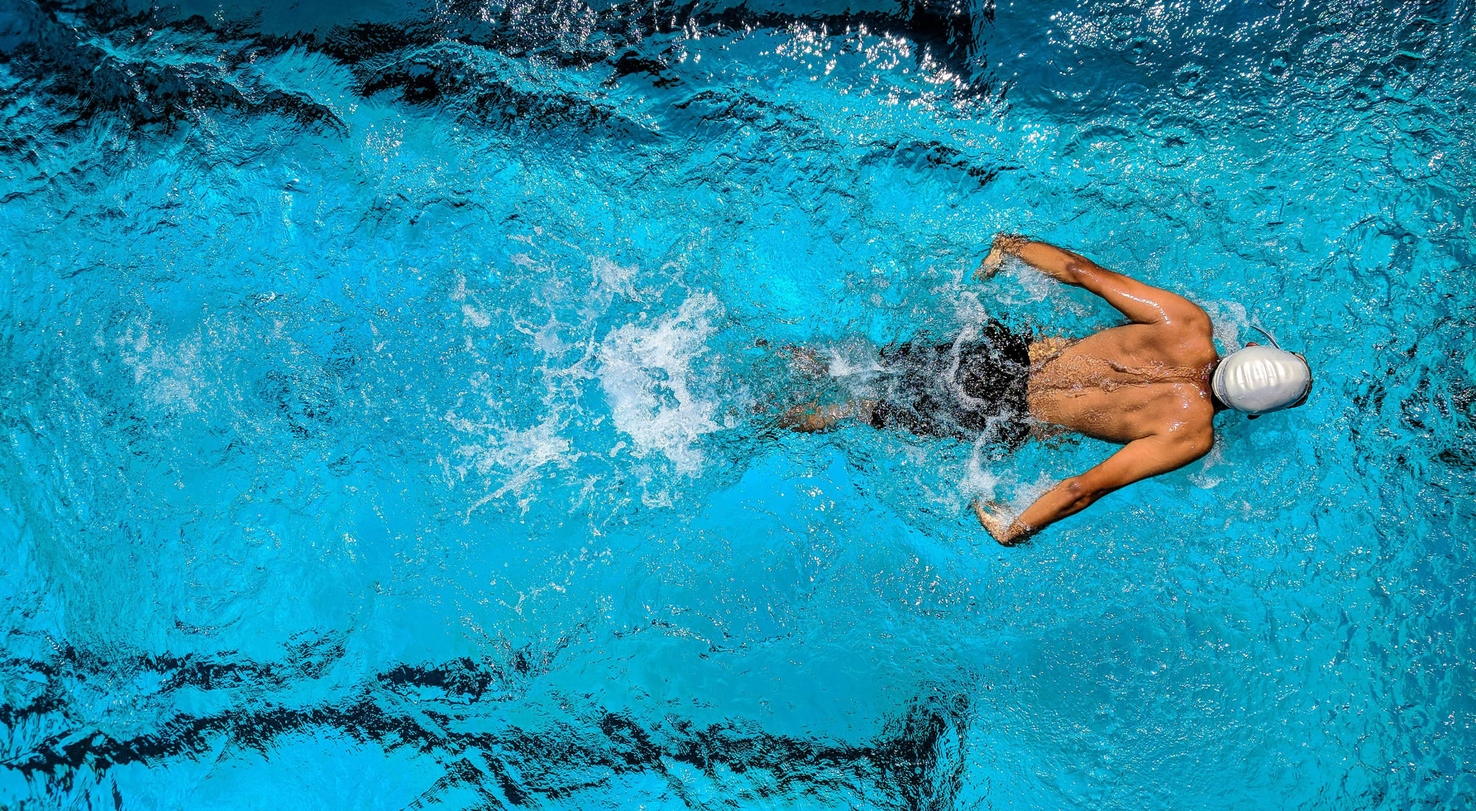
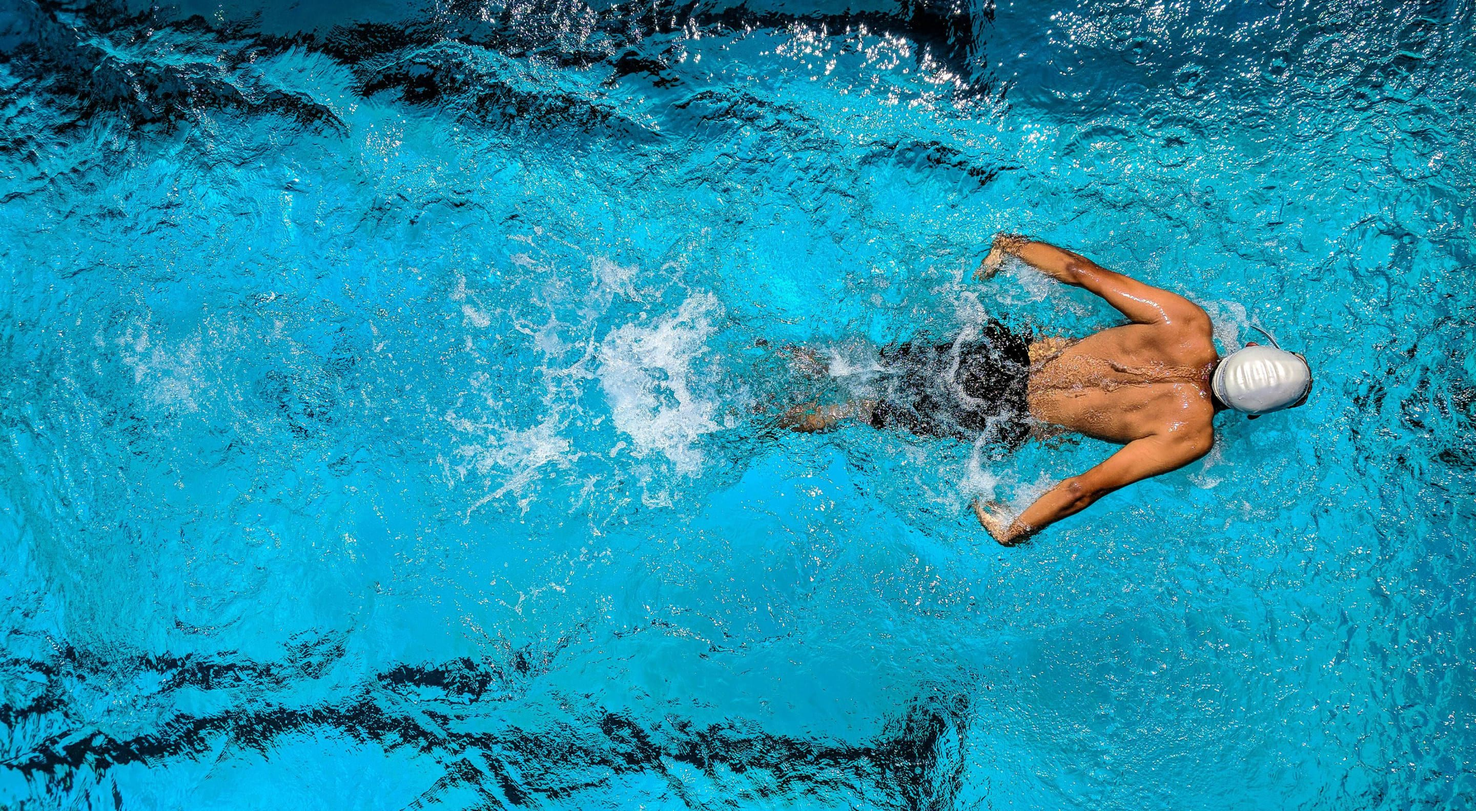
Optimize platform data loading

diff --git a/src/lib/training-plans/library.ts b/src/lib/training-plans/library.ts
@@ -1,5 +1,7 @@
 import "server-only";
 
+import { unstable_cache } from "next/cache";
+import { createSupabaseAdminClient } from "@/lib/supabase/admin";
 import { createSupabaseServerClient } from "@/lib/supabase/server";
 import { parseTrainingPlanContent } from "./content";
 import type {
@@ -171,34 +173,42 @@ export async function getAccessibleTrainingPlanVersionById(
 }
 
 async function getLibraryVersions(libraryId: string) {
-  const supabase = await createSupabaseServerClient();
-  const { data: links, error: linksError } = await supabase
-    .from("coach_library_versions")
-    .select("training_plan_version_id,sort_order")
-    .eq("library_id", libraryId)
-    .order("sort_order", { ascending: true });
-
-  if (linksError) throw new Error(linksError.message);
-  const linkRows = (links ?? []) as LibraryVersionRow[];
-  if (linkRows.length === 0) return [];
-
-  const { data: versions, error: versionsError } = await supabase
-    .from("training_plan_versions")
-    .select(VERSION_SUMMARY_COLUMNS)
-    .in("id", linkRows.map((link) => link.training_plan_version_id));
-
-  if (versionsError) throw new Error(versionsError.message);
-  const byId = new Map(
-    ((versions ?? []) as VersionSummaryRow[]).map((version) => [
-      version.id,
-      { ...version, target_distances: parseTargetDistances(version.target_distances) },
-    ]),
-  );
-
-  return linkRows
-    .map((link) => byId.get(link.training_plan_version_id))
-    .filter((version): version is TrainingPlanVersionSummary => Boolean(version));
+  return getCachedLibraryVersions(libraryId);
 }
+
+const getCachedLibraryVersions = unstable_cache(
+  async (libraryId: string) => {
+    const admin = createSupabaseAdminClient();
+    const { data: links, error: linksError } = await admin
+      .from("coach_library_versions")
+      .select("training_plan_version_id,sort_order")
+      .eq("library_id", libraryId)
+      .order("sort_order", { ascending: true });
+
+    if (linksError) throw new Error(linksError.message);
+    const linkRows = (links ?? []) as LibraryVersionRow[];
+    if (linkRows.length === 0) return [];
+
+    const { data: versions, error: versionsError } = await admin
+      .from("training_plan_versions")
+      .select(VERSION_SUMMARY_COLUMNS)
+      .in("id", linkRows.map((link) => link.training_plan_version_id));
+
+    if (versionsError) throw new Error(versionsError.message);
+    const byId = new Map(
+      ((versions ?? []) as VersionSummaryRow[]).map((version) => [
+        version.id,
+        { ...version, target_distances: parseTargetDistances(version.target_distances) },
+      ]),
+    );
+
+    return linkRows
+      .map((link) => byId.get(link.training_plan_version_id))
+      .filter((version): version is TrainingPlanVersionSummary => Boolean(version));
+  },
+  ["training-plan-library-versions"],
+  { revalidate: 30, tags: ["training-plan-library"] },
+);
 
 async function enrichLibraries(rows: LibraryRow[]) {
   if (rows.length === 0) return [];

diff --git a/src/components/app-header.tsx b/src/components/app-header.tsx
@@ -1,6 +1,8 @@
 import { LogOut, Waves } from "lucide-react";
 import Link from "next/link";
+import { unstable_cache } from "next/cache";
 import { signOut } from "@/app/login/actions";
+import { createSupabaseAdminClient } from "@/lib/supabase/admin";
 import { createSupabaseServerClient } from "@/lib/supabase/server";
 import type { AppRole } from "@/lib/auth/roles";
 import { ActiveNavLink } from "./active-nav-link";
@@ -128,20 +130,23 @@ async function getCurrentUserProfile() {
         ? user.user_metadata.full_name
         : null;
 
-    const [{ data: profileData }, { data: roleData }] = await Promise.all([
-      supabase
-        .from("profiles")
-        .select("*")
-        .eq("id", user.id)
-        .maybeSingle(),
-      supabase
-        .from("user_roles")
-        .select("role")
-        .eq("user_id", user.id),
-    ]);
+    let profileData: { full_name?: string | null; avatar_url?: string | null } | null = null;
+    let roleValues: unknown[] | undefined;
+    try {
+      const cached = await getCachedHeaderData(user.id);
+      profileData = cached.profile;
+      roleValues = cached.roles;
+    } catch {
+      const [{ data: profile }, { data: roles }] = await Promise.all([
+        supabase.from("profiles").select("full_name,avatar_url").eq("id", user.id).maybeSingle(),
+        supabase.from("user_roles").select("role").eq("user_id", user.id),
+      ]);
+      profileData = profile;
+      roleValues = roles?.map((row) => row.role);
+    }
 
-    const profile = profileData as { full_name?: string | null; avatar_url?: string | null } | null;
-    const roles = normalizeRoles(roleData?.map((row) => row.role));
+    const profile = profileData;
+    const roles = normalizeRoles(roleValues);
 
     return {
       email: user.email ?? null,
@@ -153,6 +158,24 @@ async function getCurrentUserProfile() {
     return { email: null, name: null, roles: [] as AppRole[], avatarUrl: null };
   }
 }
+
+const getCachedHeaderData = unstable_cache(
+  async (userId: string) => {
+    const admin = createSupabaseAdminClient();
+    const [{ data: profile, error: profileError }, { data: roles, error: rolesError }] = await Promise.all([
+      admin.from("profiles").select("full_name,avatar_url").eq("id", userId).maybeSingle(),
+      admin.from("user_roles").select("role").eq("user_id", userId),
+    ]);
+    if (profileError) throw new Error(profileError.message);
+    if (rolesError) throw new Error(rolesError.message);
+    return {
+      profile: profile as { full_name?: string | null; avatar_url?: string | null } | null,
+      roles: (roles ?? []).map((row) => row.role),
+    };
+  },
+  ["app-header-user"],
+  { revalidate: 60, tags: ["app-header-user"] },
+);
 
 function normalizeRoles(values: unknown[] | undefined): AppRole[] {
   const roles = (values ?? []).filter(isAppRole);

diff --git a/src/components/training-plans/structured-plan-builder.test.tsx b/src/components/training-plans/structured-plan-builder.test.tsx
@@ -1,5 +1,5 @@
 import { useState } from "react";
-import { fireEvent, render, screen } from "@testing-library/react";
+import { fireEvent, render, screen, waitFor } from "@testing-library/react";
 import { describe, expect, it, vi } from "vitest";
 import { createEmptyStructuredPlan } from "@/lib/training-plans/content";
 import type { TrainingPlanContentV2 } from "@/lib/training-plans/types";
@@ -20,31 +20,31 @@ vi.mock("@/components/feedback-provider", () => ({
 import { StructuredPlanBuilder } from "./structured-plan-builder";
 
 describe("StructuredPlanBuilder", () => {
-  it("opens the timeline dialog immediately when a workout is added", () => {
+  it("opens the timeline dialog when a workout is added", async () => {
     render(<BuilderHarness />);
 
     fireEvent.click(screen.getByRole("button", { name: "Workout" }));
 
-    expect(screen.getByRole("dialog", { name: "Neue Schwimmeinheit" })).toBeTruthy();
+    expect(await screen.findByRole("dialog", { name: "Neue Schwimmeinheit" })).toBeTruthy();
     expect(screen.getByTestId("session-count").textContent).toBe("2");
   });
 
-  it("stores the selected discipline and updates an untouched default title", () => {
+  it("stores the selected discipline and updates an untouched default title", async () => {
     render(<BuilderHarness />);
 
     fireEvent.click(screen.getByRole("button", { name: "Workout" }));
-    fireEvent.click(screen.getByRole("button", { name: "Rad" }));
+    fireEvent.click(await screen.findByRole("button", { name: "Rad" }));
     fireEvent.click(screen.getByRole("button", { name: "Workout übernehmen" }));
 
-    expect(screen.getByTestId("latest-session-title").textContent).toBe("Neue Radeinheit");
+    await waitFor(() => expect(screen.getByTestId("latest-session-title").textContent).toBe("Neue Radeinheit"));
   });
 
-  it("opens an existing workout directly and saves its session details", () => {
+  it("opens an existing workout directly and saves its session details", async () => {
     render(<BuilderHarness />);
 
     fireEvent.click(screen.getByRole("button", { name: /Neue Schwimmeinheit/ }));
 
-    expect(screen.getByRole("dialog", { name: "Neue Schwimmeinheit" })).toBeTruthy();
+    expect(await screen.findByRole("dialog", { name: "Neue Schwimmeinheit" })).toBeTruthy();
     fireEvent.change(screen.getByLabelText("Titel"), { target: { value: "Schwelle kompakt" } });
     fireEvent.change(screen.getByLabelText("Fokus"), { target: { value: "FTP stabilisieren" } });
     fireEvent.change(screen.getByLabelText("Trainingstag"), { target: { value: "3" } });

diff --git a/src/lib/dashboard/data.ts b/src/lib/dashboard/data.ts
@@ -87,6 +87,7 @@ export async function getAuthenticatedHomeData(): Promise<DashboardHomeProps | n
     rolesResult,
     improvementAnalysesResult,
     communityUpdates,
+    coachAthleteCountResult,
   ] = await Promise.all([
     supabase
       .from("profiles")
@@ -135,6 +136,10 @@ export async function getAuthenticatedHomeData(): Promise<DashboardHomeProps | n
       .order("created_at", { ascending: false })
       .limit(100),
     listRecentCommunityUpdates(4),
+    supabase
+      .from("coach_athletes")
+      .select("athlete_id", { count: "exact", head: true })
+      .eq("coach_id", user.id),
   ]);
 
   if (profileResult.error) throw new Error(profileResult.error.message);
@@ -144,6 +149,7 @@ export async function getAuthenticatedHomeData(): Promise<DashboardHomeProps | n
   if (membershipResult.error) throw new Error(membershipResult.error.message);
   if (rolesResult.error) throw new Error(rolesResult.error.message);
   if (improvementAnalysesResult.error) throw new Error(improvementAnalysesResult.error.message);
+  if (coachAthleteCountResult.error) throw new Error(coachAthleteCountResult.error.message);
 
   const activePlanRow = activePlanResult.data as ActiveTrainingPlanRow | null;
   let activeTrainingPlan: DashboardTrainingPlan | null = null;
@@ -174,17 +180,7 @@ export async function getAuthenticatedHomeData(): Promise<DashboardHomeProps | n
   const roleValues = (rolesResult.data ?? []).map((row) => row.role);
   const isCoach = roleValues.includes("coach");
   const isAdmin = roleValues.includes("admin");
-  let coachAthleteCount = 0;
-
-  if (isCoach) {
-    const { count, error } = await supabase
-      .from("coach_athletes")
-      .select("athlete_id", { count: "exact", head: true })
-      .eq("coach_id", user.id);
-
-    if (error) throw new Error(error.message);
-    coachAthleteCount = count ?? 0;
-  }
+  const coachAthleteCount = isCoach ? coachAthleteCountResult.count ?? 0 : 0;
 
   const profileRow = profileResult.data as ProfileRow | null;
   const metadataName =

diff --git a/src/app/trainingsplaene/verwalten/actions.ts b/src/app/trainingsplaene/verwalten/actions.ts
@@ -1,6 +1,6 @@
 "use server";
 
-import { revalidatePath } from "next/cache";
+import { revalidatePath, updateTag } from "next/cache";
 import { redirect } from "next/navigation";
 import { z } from "zod";
 import type { TechniqueProfileGroup } from "@/lib/analysis/types";
@@ -87,6 +87,7 @@ export async function saveTrainingPlan(
       if (error) return { message: error.message, status: "error" };
 
       revalidatePath("/admin");
+      updateTag("training-plan-library");
       revalidatePath("/trainingsplaene");
       revalidatePath("/trainingsplaene/verwalten");
       revalidatePath(`/trainingsplaene/verwalten/${parsed.data.id}`);
@@ -107,6 +108,7 @@ export async function saveTrainingPlan(
     if (error) return { message: error.message, status: "error" };
 
     revalidatePath("/admin");
+    updateTag("training-plan-library");
     revalidatePath("/trainingsplaene");
     revalidatePath("/trainingsplaene/verwalten");
     revalidatePath("/analyse");
@@ -142,6 +144,7 @@ export async function publishTrainingPlan(formData: FormData) {
   if (error) throw new Error(error.message);
 
   revalidatePath("/trainingsplaene");
+  updateTag("training-plan-library");
   revalidatePath("/trainingsplaene/verwalten");
   revalidatePath(`/trainingsplaene/verwalten/${id}`);
   revalidatePath("/admin");
@@ -168,6 +171,7 @@ export async function deleteTrainingPlan(formData: FormData) {
   if (error) throw new Error(error.message);
 
   revalidatePath("/admin");
+  updateTag("training-plan-library");
   revalidatePath("/trainingsplaene");
   revalidatePath("/trainingsplaene/verwalten");
   revalidatePath("/analyse");

diff --git a/src/components/training-plans/structured-plan-builder.tsx b/src/components/training-plans/structured-plan-builder.tsx
@@ -1,6 +1,7 @@
 "use client";
 
 import { useDeferredValue, useState } from "react";
+import dynamic from "next/dynamic";
 import {
   ArrowDown,
   ArrowUp,
@@ -11,10 +12,7 @@ import {
   Waves,
 } from "lucide-react";
 import { Button } from "@/components/button";
-import {
-  WorkoutTimelineDialog,
-  type WorkoutSessionDetails,
-} from "@/components/training-plans/workout-timeline-dialog";
+import type { WorkoutSessionDetails } from "@/components/training-plans/workout-timeline-dialog";
 import { duplicateSession, duplicateWeek, moveItem, moveSession } from "@/lib/training-plans/commands";
 import {
   createEmptyStructuredSession,
@@ -40,6 +38,20 @@ type TimelineDialogState = {
   content: NonNullable<StructuredTrainingPlanSession["timelineWorkout"]>;
   sessionDetails: WorkoutSessionDetails;
 };
+
+const WorkoutTimelineDialog = dynamic(
+  () => import("@/components/training-plans/workout-timeline-dialog").then((module) => module.WorkoutTimelineDialog),
+  {
+    ssr: false,
+    loading: () => (
+      <div role="status" className="fixed inset-0 z-[100] flex items-center justify-center bg-black/60 p-4 backdrop-blur-[2px]">
+        <div className="rounded-lg border border-[var(--line)] bg-[var(--overlay-bg)] px-5 py-4 text-sm text-[var(--muted)] shadow-2xl">
+          Workout Builder wird geladen...
+        </div>
+      </div>
+    ),
+  },
+);
 
 export function StructuredPlanBuilder({
   content,

diff --git a/src/app/login/actions.ts b/src/app/login/actions.ts
@@ -1,6 +1,6 @@
 "use server";
 
-import { revalidatePath } from "next/cache";
+import { revalidatePath, updateTag } from "next/cache";
 import { redirect } from "next/navigation";
 import { z } from "zod";
 import { assertRateLimit } from "@/lib/rate-limit/server";
@@ -55,6 +55,7 @@ export async function signInWithPassword(
     return { message: mapActionError(error, "Login fehlgeschlagen.") };
   }
 
+  updateTag("app-header-user");
   revalidatePath("/", "layout");
   redirect(nextPath);
 }
@@ -113,6 +114,7 @@ export async function signUpWithPassword(
     return { message: mapActionError(error, "Account konnte nicht erstellt werden.") };
   }
 
+  updateTag("app-header-user");
   revalidatePath("/", "layout");
   redirect(nextPath);
 }
@@ -120,6 +122,7 @@ export async function signUpWithPassword(
 export async function signOut() {
   const supabase = await createSupabaseServerClient();
   await supabase.auth.signOut();
+  updateTag("app-header-user");
   revalidatePath("/", "layout");
   redirect("/");
 }

diff --git a/src/app/profile/actions.ts b/src/app/profile/actions.ts
@@ -1,6 +1,6 @@
 "use server";
 
-import { revalidatePath } from "next/cache";
+import { revalidatePath, updateTag } from "next/cache";
 import { redirect } from "next/navigation";
 import { z } from "zod";
 import { assertRateLimit } from "@/lib/rate-limit/server";
@@ -124,6 +124,7 @@ export async function updateProfile(
     return { message: profileError.message };
   }
 
+  updateTag("app-header-user");
   revalidatePath("/", "layout");
   revalidatePath("/profile");
   revalidatePath("/analyse");
@@ -250,6 +251,7 @@ export async function removeAvatar(): Promise<AvatarActionState> {
 }
 
 function revalidateProfileSurfaces() {
+  updateTag("app-header-user");
   revalidatePath("/", "layout");
   revalidatePath("/profile");
   revalidatePath("/analyse");
